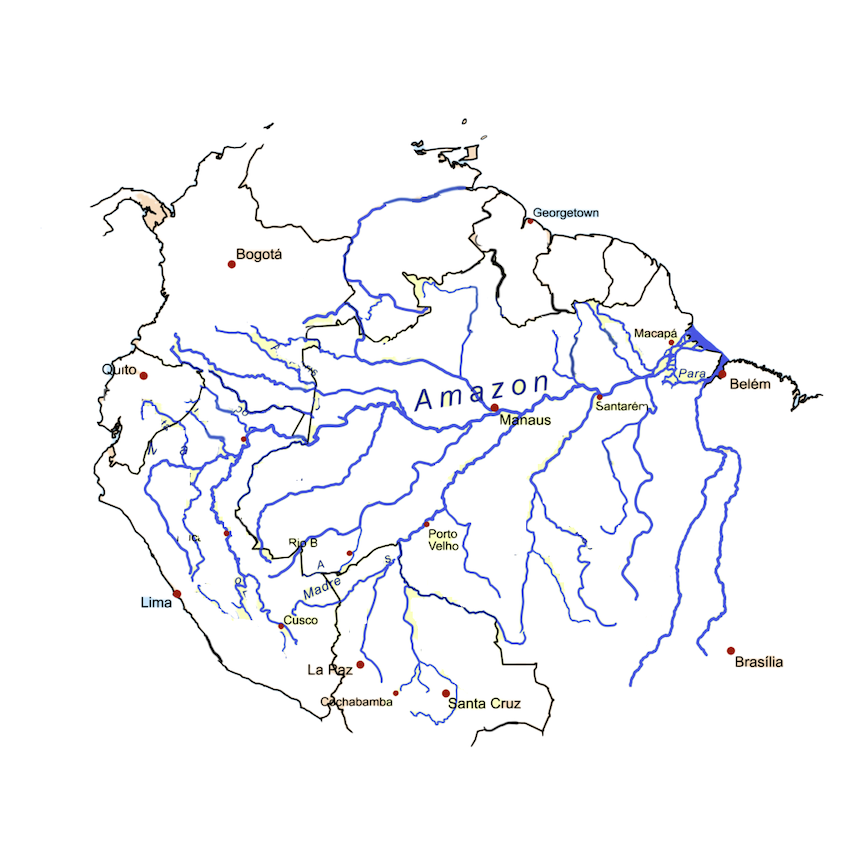
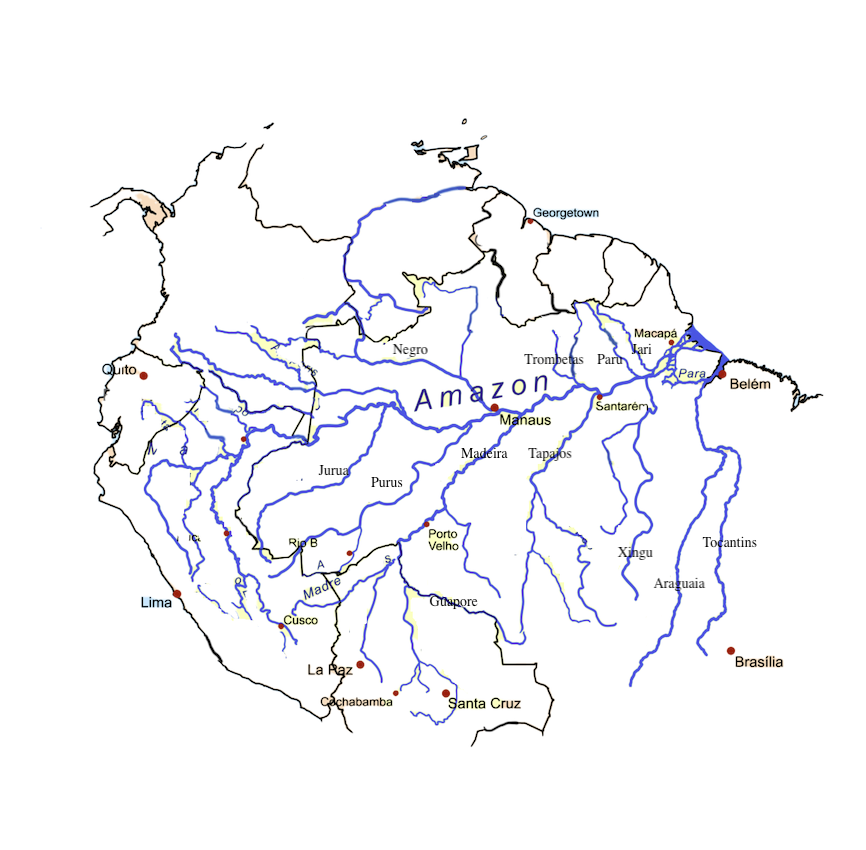
image map basically done, but having trouble with responsiveness. Saving this tentatively before implementing svg

diff --git a/src/Components/Home.tsx b/src/Components/Home.tsx
@@ -1,12 +1,8 @@
 import React, { useState } from 'react';
-import Modal from 'react-modal';
 import Read from './Read';
-import AmazonMap from '../Images/AmazonMap.png'; // import the image here
+import AmazonMap from '../Images/AmazonMap.svg.png'; // import the image here
 import '../Styles.css';
 
-interface HomeProps {
-  origin: string;
-};
 
 const Home = () => {
   const [accordionIsOpen, setAccordionIsOpen] = useState(false);
@@ -27,10 +23,6 @@ const Home = () => {
   const toggleAccordion = () => {
     setAccordionIsOpen(!accordionIsOpen);
   };
-
-  const handleClick = () => {
-    console.log("clicked");
-  }
 
   return (
     <>
@@ -66,7 +58,19 @@ const Home = () => {
       )}
       <img src={AmazonMap} alt="Amazon Map" useMap="#amazonMap" className="rounded-lg shadow-lg py-4" />
       <map name="amazonMap">
-        <area shape="rect" coords="280, 345, 600, 560" onMouseOver={() => setTransform(true)} onMouseOut={() => setTransform(false)} style={transform ? { transform: 'scale(1.2)', cursor: 'pointer' } : { cursor: 'default' }} onClick={() => openModal('all')} />
+        <area shape="circle" coords="343,260,27" onMouseOver={() => setTransform(true)} onMouseOut={() => setTransform(false)} style={transform ? { transform: 'scale(1.2)', cursor: 'pointer' } : { cursor: 'default' }} onClick={() => openModal('Negro')} />
+        <area shape="circle" coords="403,375,28" onMouseOver={() => setTransform(true)} onMouseOut={() => setTransform(false)} style={transform ? { transform: 'scale(1.2)', cursor: 'pointer' } : { cursor: 'default' }} onClick={() => openModal('Madeira')} />
+        <area shape="circle" coords="486,372,28" onMouseOver={() => setTransform(true)} onMouseOut={() => setTransform(false)} style={transform ? { transform: 'scale(1.2)', cursor: 'pointer' } : { cursor: 'default' }} onClick={() => openModal('Tapajos')} />
+        <area shape="circle" coords="575,475,26" onMouseOver={() => setTransform(true)} onMouseOut={() => setTransform(false)} style={transform ? { transform: 'scale(1.2)', cursor: 'pointer' } : { cursor: 'default' }} onClick={() => openModal('Xingu')} />
+        <area shape="circle" coords="331,397,23" onMouseOver={() => setTransform(true)} onMouseOut={() => setTransform(false)} style={transform ? { transform: 'scale(1.2)', cursor: 'pointer' } : { cursor: 'default' }} onClick={() => openModal('Purus')} />
+        <area shape="circle" coords="257,391,25" onMouseOver={() => setTransform(true)} onMouseOut={() => setTransform(false)} style={transform ? { transform: 'scale(1.2)', cursor: 'pointer' } : { cursor: 'default' }} onClick={() => openModal('Jurua')} />
+        <area shape="circle" coords="671,476,25" onMouseOver={() => setTransform(true)} onMouseOut={() => setTransform(false)} style={transform ? { transform: 'scale(1.2)', cursor: 'pointer' } : { cursor: 'default' }} onClick={() => openModal('Tocantins')} />
+        <area shape="circle" coords="618,526,28" onMouseOver={() => setTransform(true)} onMouseOut={() => setTransform(false)} style={transform ? { transform: 'scale(1.2)', cursor: 'pointer' } : { cursor: 'default' }} onClick={() => openModal('Araguaia')} />
+        <area shape="circle" coords="605,258,15" onMouseOver={() => setTransform(true)} onMouseOut={() => setTransform(false)} style={transform ? { transform: 'scale(1.2)', cursor: 'pointer' } : { cursor: 'default' }} onClick={() => openModal('Jari')} />
+        <area shape="circle" coords="520,258,24" onMouseOver={() => setTransform(true)} onMouseOut={() => setTransform(false)} style={transform ? { transform: 'scale(1.2)', cursor: 'pointer' } : { cursor: 'default' }} onClick={() => openModal('Trombetas')} />
+        <area shape="circle" coords="398,514,26" onMouseOver={() => setTransform(true)} onMouseOut={() => setTransform(false)} style={transform ? { transform: 'scale(1.2)', cursor: 'pointer' } : { cursor: 'default' }} onClick={() => openModal('Guapore')} />
+        <area shape="circle" coords="569,241,17" onMouseOver={() => setTransform(true)} onMouseOut={() => setTransform(false)} style={transform ? { transform: 'scale(1.2)', cursor: 'pointer' } : { cursor: 'default' }} onClick={() => openModal('Paru')} />
+        <area shape="circle" coords="156,429,25" onMouseOver={() => setTransform(true)} onMouseOut={() => setTransform(false)} style={transform ? { transform: 'scale(1.2)', cursor: 'pointer' } : { cursor: 'default' }} onClick={() => openModal('Ucayali')} />
       </map>
       </div>
     </div>

diff --git a/src/App.tsx b/src/App.tsx
@@ -1,23 +1,26 @@
 import { BrowserRouter as Router, Routes, Route } from 'react-router-dom';
-import Header from './Components/Header';
+import SideBar from './Components/SideBar';
 import Home from './Components/Home';
 import Create from './Components/Create';
 import Update from './Components/Update';
 import Delete from './Components/Delete';
 
-
 function App() {
   return (
-    <div className="App">
-      <Router>
-        <Header />
-        <Routes>
-          <Route path="/" element={<Home />} />
-          <Route path="/create" element={<Create />} />
-          <Route path="/update/:id" element={<Update />} />
-          <Route path="/delete/:id" element={<Delete />} />
-        </Routes>
-      </Router>
+    <div className="flex">
+      <div className="flex flex-row h-screen">
+        <SideBar />
+      </div>
+      <div className="flex-1">
+        <Router>
+          <Routes>
+            <Route path="/" element={<Home />} />
+            <Route path="/create" element={<Create />} />
+            <Route path="/update/:id" element={<Update />} />
+            <Route path="/delete/:id" element={<Delete />} />
+          </Routes>
+        </Router>
+      </div>
     </div>
   );
 }

diff --git a/src/Components/Read.tsx b/src/Components/Read.tsx
@@ -71,7 +71,7 @@ const Read: React.FC<ReadProps> = ({ origin, closeModal }) => {
           style={{ maxHeight: `${modalHeight}px`, overflowY: 'auto' }}
         >
           <div className="modal-header text-center">
-            <h2>Apistogramma Fish</h2>
+            <h2 className="text-lg font-serif">{origin}</h2>
           </div>
           <div className="flex-1 mb-4">
           {fish
@@ -94,7 +94,7 @@ const Read: React.FC<ReadProps> = ({ origin, closeModal }) => {
       <div className="w-1/2 p-6">
         <h2 className="text-xl font-bold mb-2">{fish.name}</h2>
         <p className="text-gray-700 text-base">
-          Origin: {fish.origin}
+          Origin: {fish.origin} River
         </p>
         <p className="text-gray-700 text-base">
           Size: {fish.size}cm

diff --git a/src/Components/SideBar.tsx b/src/Components/SideBar.tsx
@@ -1,0 +1,14 @@
+import React from 'react';
+
+const SideBar = () => {
+  return (
+    <div className="flex flex-col w-200 h-full bg-black">
+      <header className="py-4 px-8 shadow-md">
+        <button className="block px-4 text-white font-sans mb-4">Staff Log In</button>
+        <button className="block px-4 text-white font-sans">Send Message</button>
+      </header>
+    </div>
+  );
+};
+
+export default SideBar;
